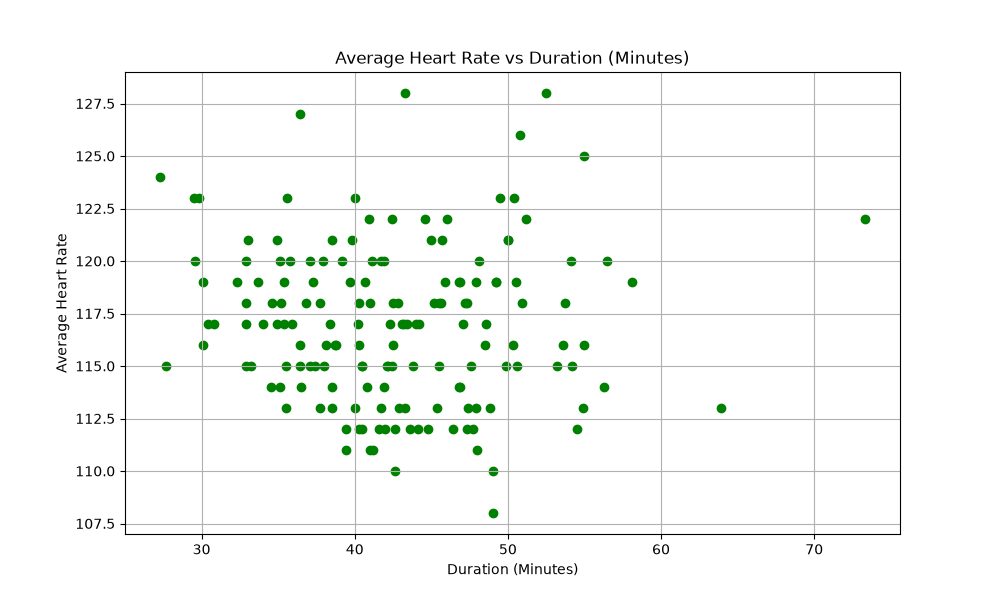
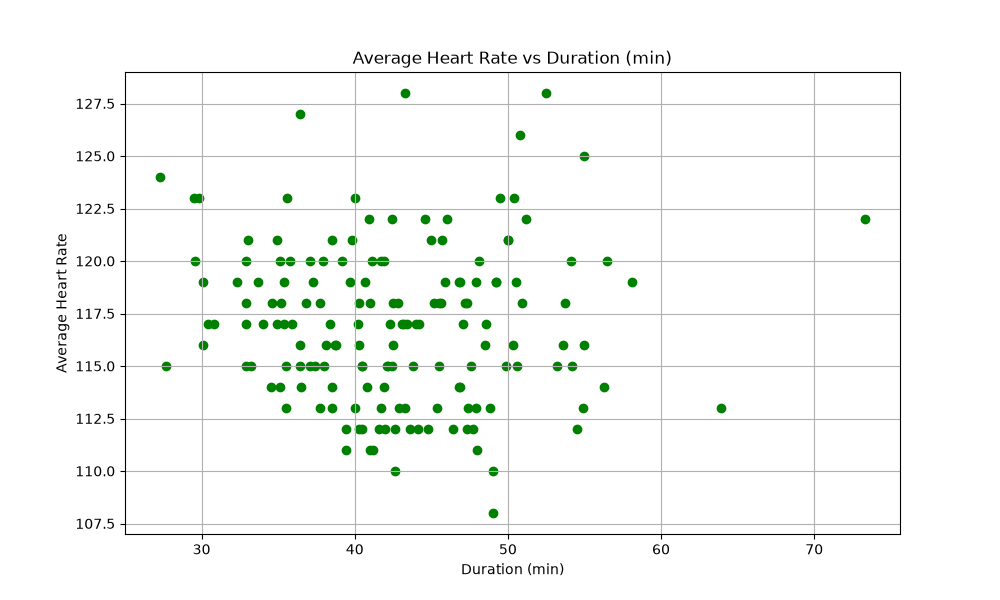
Resubmission 2

Changed region(s): [[0.341, 0.09, 0.682, 0.12], [0.434, 0.93, 0.589, 0.96]]

diff --git a/assignments_07/project_07.py b/assignments_07/project_07.py
@@ -133,13 +133,6 @@ def get_top_n_countries(column: str, year: int, n: int = 5) -> dict:
 
     if df == None:
             return error_df
-    
-    try:
-        if len(year) < 4:
-            year = int('20' + year)
-    except TypeError:
-        if 14 < year < 25:
-            year += 2000
 
     if not column or not year:
         return {"error": f"Missing a required variable. Column options: {df.columns.tolist()}, Year options: 2015-2024"}
@@ -189,43 +182,45 @@ agent = CodeAgent(
     max_steps=8,
 )
 
-# Task 3: Run Guided Queries
+if __name__ == "__main__":
 
-queries = [
-    "Load the happiness data and tell me its shape and column names.",
-    "Summarize the happiness_score column.",
-    "What is the correlation between gdp_per_capita and happiness_score? Is it statistically significant?",
-    "Show me the top 5 happiest countries in 2020.",
-    "Plot happiness_score over the years as a line chart, with one line per region. Save the plot to outputs/happiness_by_region.png.",
-]
+    # Task 3: Run Guided Queries
 
-for query in queries:
-    print(f"\n--- Query: {query} ---")
-    response = agent.run(query, reset=False)
-    print(response)
+    queries = [
+        "Load the happiness data and tell me its shape and column names.",
+        "Summarize the happiness_score column.",
+        "What is the correlation between gdp_per_capita and happiness_score? Is it statistically significant?",
+        "Show me the top 5 happiest countries in 2020.",
+        "Plot happiness_score over the years as a line chart, with one line per region. Save the plot to outputs/happiness_by_region.png.",
+    ]
 
-# Task 4: Your Own Questions
+    for query in queries:
+        print(f"\n--- Query: {query} ---")
+        response = agent.run(query, reset=False)
+        print(response)
 
-# My query 1
-my_query_1 = "Rank the top 5 countries for social_support over all the years provided."   # replace with your question
-response_1 = agent.run(my_query_1, reset=False)
-print(response_1)
-# Comment: Did this trigger tool use, code generation, or both?
-# This query triggered both tool use and code generation. The agent used the tool 
-# get_top_n_coutries to gather a list of the top 5 countries for each year. It then 
-# wrote its own code to find which countries had the most occurences and give the 
-# answer of the top 5 over all years provided.
+    # Task 4: Your Own Questions
 
-# My query 2
-my_query_2 = "Plot the correlation between perceptions_of_corruption and healthy life expectancy for all countries in 2024. Save the plot to outputs/happiness_by_region.png."   # replace with your question
-response_2 = agent.run(my_query_2, reset=False)
-print(response_2)
-# Comment: Did this trigger tool use, code generation, or both?
-# This query triggered code generation. I had expected it to trigger tool use as well, 
-# but the mention of correlation in the query may not have been enough to get the agent 
-# to use the correlation tool. I left the plot description ambiguous to see what the agent 
-# would decide to use. It created a scatter plot of the two columns and added a linear 
-# regression line.
+    # My query 1
+    my_query_1 = "Rank the top 5 countries for social_support over all the years provided."   # replace with your question
+    response_1 = agent.run(my_query_1, reset=False)
+    print(response_1)
+    # Comment: Did this trigger tool use, code generation, or both?
+    # This query triggered both tool use and code generation. The agent used the tool 
+    # get_top_n_coutries to gather a list of the top 5 countries for each year. It then 
+    # wrote its own code to find which countries had the most occurences and give the 
+    # answer of the top 5 over all years provided.
+
+    # My query 2
+    my_query_2 = "Plot the correlation between perceptions_of_corruption and healthy life expectancy for all countries in 2024. Save the plot to outputs/happiness_by_region.png."   # replace with your question
+    response_2 = agent.run(my_query_2, reset=False)
+    print(response_2)
+    # Comment: Did this trigger tool use, code generation, or both?
+    # This query triggered code generation. I had expected it to trigger tool use as well, 
+    # but the mention of correlation in the query may not have been enough to get the agent 
+    # to use the correlation tool. I left the plot description ambiguous to see what the agent 
+    # would decide to use. It created a scatter plot of the two columns and added a linear 
+    # regression line.
 
 # Task 5: Reflection
 

diff --git a/assignments_07/warmup_07.py b/assignments_07/warmup_07.py
@@ -233,17 +233,8 @@ def run_agent(user_prompt: str) -> str:
             if function_name == 'get_current_time':
                 tool_result = get_current_time()
             elif function_name == 'celsius_to_fahrenheit':
-                celsius_temp = None
-                user_prompt_list = user_prompt.split(' ')
-                for u in user_prompt_list:
-                    try:
-                        u = int(u)
-                        celsius_temp = u
-                        break
-                    except ValueError:
-                        pass
-                if celsius_temp:
-                    tool_result = celsius_to_fahrenheit(celsius_temp)
+                arguments = json.loads(tool_call.function.arguments)
+                tool_result = celsius_to_fahrenheit(arguments['celsius'])
             else:
                 tool_result = f'Error: unknown tool {function_name}.'
 
